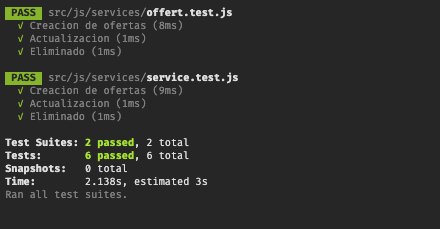
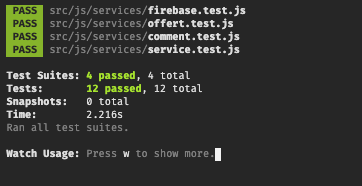
Prueba unitaria de la entidad usuario

Changed region(s): [[0.0, 0.0269, 0.6989, 0.8871]]

diff --git a/src/setupTests.js b/src/setupTests.js
@@ -6,7 +6,23 @@ jest.mock("firebase", () => ({
     firestore() {
         return {
             collection: () => ({
-                add: jest.fn(()=>({})),
+                where: jest.fn(() => (
+                    {
+                        get: jest.fn(() => (
+                            {
+                                docs: [
+                                    {
+                                        ref: {
+                                            update: () => { },
+                                            delete: () => { },
+                                        }
+                                    },
+                                ]
+                            }
+                        ))
+                    }
+                )),
+                add: jest.fn(() => ({})),
                 doc: jest.fn(() => ({ set: () => { }, delete: () => { } })),
             })
         }

diff --git a/src/js/services/offert.test.js b/src/js/services/offert.test.js
@@ -11,20 +11,20 @@ beforeEach(() => {
 test('Creacion de ofertas', async () => {
     const offert = new OfertModel({});
     const resul = await offertService.createOffert(offert);
-    expect(resul).toEqual(mapResponse(true,))
+    expect(resul).toEqual(mapResponse(true, {}))
 })
 
 
 test("Actualizacion", async () => {
     const offert = new OfertModel({})
     const resul = await offertService.updateOffert(offert);
-    expect(resul).toEqual(mapResponse(true,"ok"))
+    expect(resul).toEqual(mapResponse(true, "ok"))
 })
 
 test("Eliminado", async () => {
     const offert = new OfertModel({})
     const resul = await offertService.deleteOffert(offert);
-    expect(resul).toEqual(mapResponse(true,"ok"))
+    expect(resul).toEqual(mapResponse(true, "ok"))
 
 })
 

diff --git a/src/js/services/firebase.test.js b/src/js/services/firebase.test.js
@@ -1,0 +1,16 @@
+import { createUser, updateUserById, deleteUserById } from './firebase'
+import { mapResponse } from '../utils/mapResponse'
+
+test('Creacion', async () => {
+    const r = await createUser()
+    expect(r).toEqual(mapResponse(true, {}))
+})
+test('Actualizacion', async () => {
+    const r = await updateUserById("123", {})
+    expect(r).toEqual(mapResponse(true))
+})
+test('Eliminacion', async () => {
+    const r = await deleteUserById("123", {})
+    expect(r).toEqual(mapResponse(true))
+
+})
